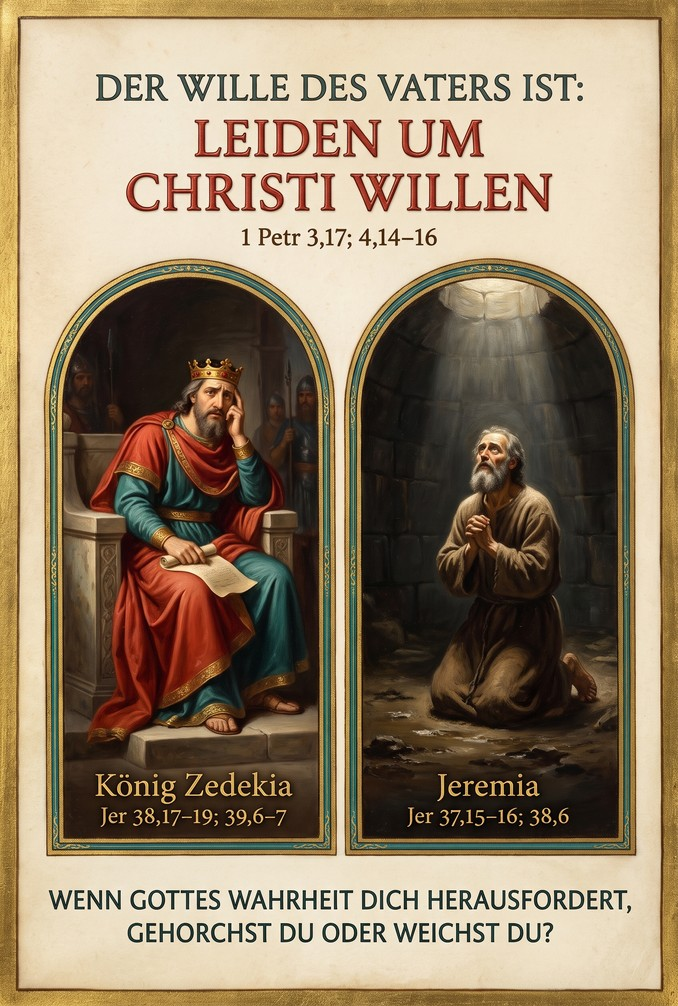
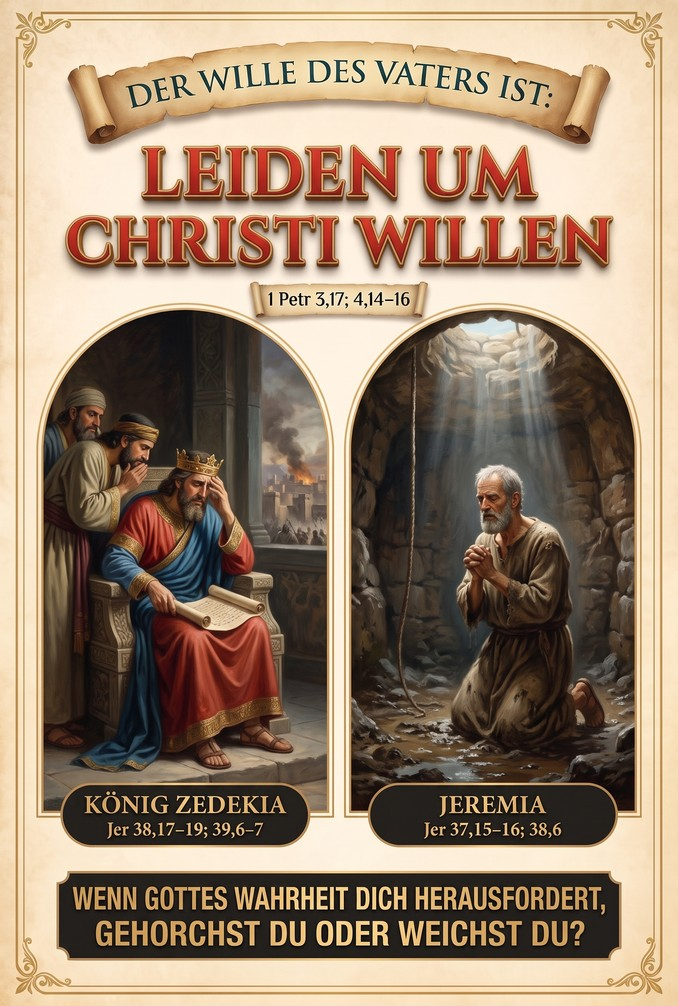
Karte 43: neue Vorderseite (Gemini) Zedekia/Jeremia
Claude-Session: https://claude.ai/code/session_0124h5yDy6USGZ8DS8E24Fju

diff --git a/card-text.js b/card-text.js
@@ -44,7 +44,7 @@ window.COR_DEO_TEXT = {
  "40": "DER WILLE DES VATERS IST: | EINHEIT | Joh 17,20–23 | TURMBAU ZU BABEL | PFINGSTEN | 1 Mo 11,1–9 | Apg 2,1–11 | WELCHE SCHRITTE KANN ICH GEHEN, UM EINHEIT ZU FÖRDERN? | WEGE ZUR EINHEIT | Gastfreundschaft & Liebe teilen | Apg 2,46; Röm 12,13; Joh 4; Mt 18,12–14 | Selbstlose Liebe | Apg 2,44–45; 1 Joh 3,17 | Gemeinsame Identität in Christus | Eph 4,3; Gal 3,28 | Menschen über Vorlieben stellen | Phil 2,3–4 | Demut und Hören | Apg 6,1–5; Jak 1,19 | Vielfalt feiern | Offb 7,9; 1 Kor 12,12–14 | Freundschaft, Auftrag und Gebet | Joh 13,34–35; Apg 4,31; Mt 28,19–20; Apg 2,42",
  "41": "Eintritt in Seinen Willen – Erkenntnis der Sünde, Zurechtweisung & Umkehr | Erkenntnis der Sünde | 2 Sam 12,13; Jes 6,5; Lk 22,61–62 | Prophetische Zurechtweisung | 2 Sam 12,7; 1 Kön 18,17–18; Mk 6,18 | Konsequenzen | 1 Mo 3,23; Ri 16,19–21; 4 Mo 14,32–34 | Weg der Umkehr | Jona 2,1–10; 2 Chr 33,12–13; Lk 15,17–20 | Erneuerung nach dem Scheitern | Joh 21,15–17; Esra 3,2–3; Ps 51,10–13 | Krisenruf zur Veränderung | Est 4,15–16; 2 Kön 20,1–6; Jona 3,5–10 | Gottes liebende Zucht | Hebr 12,6; Neh 9,27–31; 1 Kor 5,1–5 | Eintritt in Seinen Willen – Prüfungen, Leiden & Führung | Abhängigkeit durch Schwierigkeiten | 5 Mo 8,2–3; 1 Kön 17,4–6; 1 Mo 16,13–14 | Leiden läutert den Charakter | Hi 23,10; 1 Mo 39,20–23; 2 Kor 11,23–27 | Führung durch Umstände | Rt 1,6; 1 Mo 45,5–8; 1 Mo 12,10 | Wiederherstellung nach dem Scheitern | Joh 21,15–19; Jona 3,1–3; Ri 16,28–30 | Ausharren in Bedrängnis | 2 Tim 4,7; Dan 6,10; 1 Mo 6,22 | Geduld im Warten | 1 Mo 21,1–2; Lk 2,25–32; 1 Sam 16,13 | Gottes Gnade in Schwachheit | 2 Kor 12,7–9; 2 Mo 4,10–12; Ri 6,14–16",
  "42": "DER WILLE DES VATERS IST: | VORBILD JESU FOLGEN | Mt 26,39 | JONA | MARIA | Jona 1,3 | Lk 1,38 | WENN GOTTES WILLE SCHWER ERSCHEINT, FLIEHST DU WIE JONA ODER VERTRAUST DU WIE MARIA? | INNERE KÄMPFE | Furcht vor unbequemer Wahrheit | 1 Kön 22,13–28; Jes 55,8–9 | Furcht vor Selbsterkenntnis | 2 Sam 12,1–13; Ps 139,23–24 | Furcht vor der eigenen Berufung | 2 Mo 4,10–13; Jer 1,6–8; 2 Tim 1,7 | Furcht, die Kontrolle zu verlieren | 1 Mo 16,1–4; Spr 3,5–6 | Zweifel an Gottes Güte | Hi 23,10; Hi 42,2 | Angst vor Ablehnung | Mt 26,69–75; Gal 1,10 | Hingabe trotz Furcht | Mt 26,39; Hebr 5,7–8",
- "43": "DER WILLE DES VATERS IST: LEIDEN UM CHRISTI WILLEN | 1 Petr 3,17; 4,14–16 | König Zedekia | Jer 38,17–19; 39,6–7 | Jeremia | Jer 37,15–16; 38,6 | WENN GOTTES WAHRHEIT DICH HERAUSFORDERT, GEHORCHST DU ODER WEICHST DU? | Folgen von Gehorsam und Ungehorsam | Fürchtete die Menschen, wählte die politische Sicherheit | Jer 38,19–20 | Kannte den Willen Gottes, aber handelte nicht danach | Jer 38,17–18 | Persönlicher Untergang | Jer 39,5 | Zerstörung von Familie und Stadt | Jer 39,6–7 | Ertrug Not, blieb aber treu | Jer 20,1–2; 38,6 | Sprach die Wahrheit kühn aus, trotz der Folgen | Jer 26,12–15 | Lohn des Leidens | Mt 5,10–12; 1 Petr 4,13–14; 2 Kor 4,17",
+ "43": "DER WILLE DES VATERS IST: LEIDEN UM CHRISTI WILLEN, 1 Petr 3,17; 4,14–16 | KÖNIG ZEDEKIA | JEREMIA | Jer 38,17–19; 39,6–7 | Jer 37,15–16; 38,6 | wenn gottes wahrheit dich herausfordert, gehorchst du oder weichst du? | Folgen von Gehorsam und Ungehorsam | Fürchtete die Menschen, wählte die politische Sicherheit | Jer 38,19–20 | Kannte den Willen Gottes, aber handelte nicht danach | Jer 38,17–18 | Persönlicher Untergang | Jer 39,5 | Zerstörung von Familie und Stadt | Jer 39,6–7 | Ertrug Not, blieb aber treu | Jer 20,1–2; 38,6 | Sprach die Wahrheit kühn aus, trotz der Folgen | Jer 26,12–15 | Lohn des Leidens | Mt 5,10–12; 1 Petr 4,13–14; 2 Kor 4,17",
  "44": "DER WILLE DES VATERS IST: | UNTERWIRF DICH GOTTES SOUVERÄNITÄT | Jak 4,15 | PHARAO | MOSE | 2 Mo 5,2; 7–12 | 2 Mo 3,4–14 | WIDERSPIEGELT MEINE HALTUNG GEGENÜBER GOTTES FÜHRUNG EHER DEN PHARAO ODER MOSE? | WIDERSETZLICHKEIT ODER GEHORSAM | Unterwirf dich Gottes Autorität | 2 Mo 3–4; Hi 42,2; Lk 1,38 | Weise hochmütigen Widerstand zurück | Dan 4,31–37; Apg 9,1–19; 2 Sam 12,13 | Vertraue Gottes Ratschluss | 1 Mo 50,20; Est 4,14–16; Dan 6 | Finde Frieden in der Hingabe | 1 Sam 1,10–18; Lk 22,42; Joh 21,18–19 | Antworte dem Ruf Gottes in Demut | 1 Sam 3,10; Jes 6,8; Lk 1,38 | Ergreife deine Berufung | Ri 6,14–16; Jer 1,6–8; 1 Tim 4,12 | Gott herrscht, du bist verantwortlich | Spr 16,9; Phil 2,12–13",
  "45": "DER WILLE DES VATERS IST: DEIN WILLE GESCHEHE, Mt 6,10 | PETRUS IN GETHSEMANE | JESUS IN GETHSEMANE | Mt 26,51–54 | Mt 26,39.42 | unterwerfe ich mich oder widersetze ich mich dem willen gottes? | Sich dem Willen Gottes hingeben | Sich Gottes Willen unterwerfen | 1 Mo 22,1–3; Mt 26,39 | Gott im Leiden vertrauen | 1 Mo 22,8; Mt 26,39 | Leiden führt zu Gottes Willen | 1 Mo 22,6–10; Mt 26,42 | Eigene Wünsche Gottes Plan anpassen | 1 Mo 22,2.10; Mt 26,39.42 | Hingabe statt eigener Anstrengung | 1 Mo 22,9–12; Mt 26,52–54 | Gottes Kraft und Zeit vertrauen | 1 Mo 22,8.13–14; Mt 26,53 | Der Versuchung widerstehen | 1 Mo 22,3.12; Mt 26,41",
  "46": "DER WILLE DES VATERS IST: ER FORMT MICH, Jes 64,7 | KÖNIG SAUL | JOSEF | 1 Sam 13,8–14 | 1 Mo 37–50 | lasse ich gott den töpfer sein oder übernehme ich die kontrolle? | Geformt für Seine Herrlichkeit | Gott als den Töpfer annehmen | Jes 64,7; Jer 18,6; Röm 9,21 | Gottes Güte vertrauen | 1 Mo 45,7–8; Hi 42,2; Röm 8,28 | Mit Gottes Souveränität mitwirken | 1 Mo 50,20; Spr 16,9; Phil 2,12–13 | Sich mit Gottes Absichten ausrichten | 1 Mo 45,7–8; 1 Sam 13,13–14; Eph 2,10 | Durch Prüfungen wachsen | Ps 105,19; 1 Mo 39,20–23; Röm 5,3–4 | Gehorsam an erste Stelle setzen | 1 Sam 15,22; Joh 14,15; Jak 1,22 | Vergebung im Herzen tragen | 1 Mo 50,15–21; 1 Mo 45,4–5; Eph 4,32",

diff --git a/index.html b/index.html
@@ -4237,7 +4237,7 @@ window.COR_DEO_NOTES = {
     { n: 77, th: "Ein Hirtenherz", w: "Die untreuen Hirten", wr: "Hes 34,1–10", v: "Der gute Hirte (Jesus)", vr: "Joh 10", q: "Wie kann ich das Herz des guten Hirten widerspiegeln, wenn ich für andere sorge?" },
     { n: 79, th: "Einheit", w: "Der Turmbau zu Babel", wr: "1 Mo 11,1–9", v: "Pfingsten", vr: "Apg 2,1–11", q: "Welche Schritte kann ich gehen, um Einheit zu fördern?" },
     { n: 83, th: "Vorbild Jesu folgen", w: "Jona", wr: "Jona 1,3", v: "Maria", vr: "Lk 1,38", q: "Wenn Gottes Wille schwer erscheint, fliehst du wie Jona oder vertraust du wie Maria?" },
-    { n: 85, th: "Leiden um Christi willen", w: "König Zedekia", wr: "Jeremia 38,17–19; 39,6–7", v: "Jeremia", vr: "Jeremia 37,15–16; 38,6", q: "Wenn Gottes Wahrheit dich herausfordert, gehorchst du oder weichst du aus?" },
+    { n: 85, th: "Leiden um Christi willen", w: "König Zedekia", wr: "Jer 38,17–19; 39,6–7", v: "Jeremia", vr: "Jer 37,15–16; 38,6", q: "Wenn Gottes Wahrheit dich herausfordert, gehorchst du oder weichst du aus?" },
     { n: 87, th: "Unterwirf dich Gottes Souveränität", w: "Pharao", wr: "2 Mo 5,2; 7–12", v: "Mose", vr: "2 Mo 3,4–14", q: "Widerspiegelt meine Haltung gegenüber Gottes Führung eher den Pharao oder Mose?" },
     { n: 89, th: "Dein Wille geschehe", w: "Petrus in Gethsemane", wr: "Mt 26,51–54", v: "Jesus in Gethsemane", vr: "Mt 26,39.42", q: "Unterwerfe ich mich oder widersetze ich mich dem Willen Gottes?" },
     { n: 91, th: "Er formt mich", w: "König Saul", wr: "1 Sam 13,8–14", v: "Josef", vr: "1 Mo 37–50", q: "Lasse ich Gott den Töpfer sein oder übernehme ich die Kontrolle?" },

diff --git a/sw.js b/sw.js
@@ -6,8 +6,8 @@
      sodass ein Update der Seite (VERSION erhöhen) die ~7,6 MB nicht erneut herunterlädt.
    - Fremde Adressen werden nicht angefasst (die Schriften liegen im Ordner fonts/ und werden wie Bilder aus dem Cache bedient).
    Bei Änderungen an diesem Skript: VERSION erhöhen. Bei neuen/geänderten Kartenbildern: IMG_CACHE erhöhen. */
-var VERSION = "cordeo-v131";
-var IMG_CACHE = "cordeo-img-v114";
+var VERSION = "cordeo-v132";
+var IMG_CACHE = "cordeo-img-v115";
 var CARD_COUNT = 120;                       // Anzahl der Bilddateien "COR DEO-Karten-001.jpg" … "-120.jpg"
 var PRECACHE_PARALLEL = 4;
 var SHELL = ["./", "index.html", "manifest.json", "pwa.js", "share.js", "legal.js", "card-text.js", "fonts/fonts.css", "share-qr.svg", "share-qr.png",
